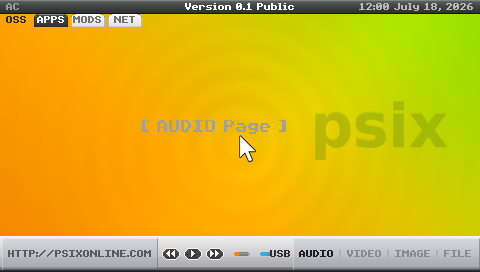
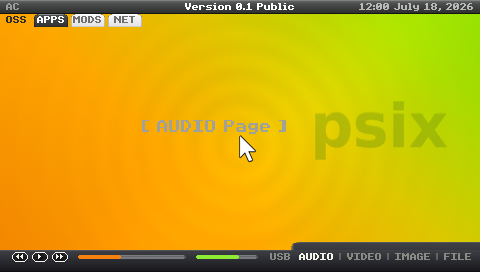
feat(skin): psix-hifi revision 3 -- dark slim chrome, varied bar widths
User feedback pass: back to the darker chrome, reclaim footer space.

- Footer returns to dark glossy chrome (silver band dropped) with the
  original dock palette: translucent transport pills, orange progress,
  lime volume.
- URL plate removed (url_text unset) -- no website link in the UI; the
  dock leads with the transports.
- Slimmer footer (36 -> 30px) with a two-level silhouette baked into
  bar_bottom.png: the left ~60% is a slim band with transparent chrome
  above it (wallpaper shows through), and a raised full-height shelf on
  the right carries the AUDIO/VIDEO/IMAGE/FILE strip -- menu bars with
  different widths/heights like the PSIX reference, not one uniform slab.
- media_dock no longer draws the classic chrome bezel behind the tab
  strip (dock skins bake their own shelf chrome; the bezel was
  lightening the baked shelf). Dock mode is only used by psix-hifi.
- media_tab_* overrides dropped -- tab strip text falls back to the
  theme's light-on-dark text/dim colors.

Verified: fmt, clippy -D warnings, oasis-core + oasis-skin tests green,
palette snapshot unchanged. Gallery re-rendered on a real display.

Changed region(s): [[0.0, 0.8529, 1.0, 1.0]]

diff --git a/crates/oasis-core/src/bottombar.rs b/crates/oasis-core/src/bottombar.rs
@@ -574,8 +574,10 @@ impl BottomBar {
 
         // Media tab strip is forced on in dock mode (regardless of
         // `show_media_tabs`) so the dock always carries the AUDIO/VIDEO/
-        // IMAGE/FILE selector.
+        // IMAGE/FILE selector. The classic chrome bezel is hidden: dock
+        // skins bake their own tab-shelf chrome into the bar texture.
         let tabs_x = self.draw_media_tabs(sdi, at, right_edge);
+        hide_bezel(sdi, "bar_tab_bezel");
 
         // USB indicator to the left of the tab strip.
         let usb_w = text_px("USB", font_small);
